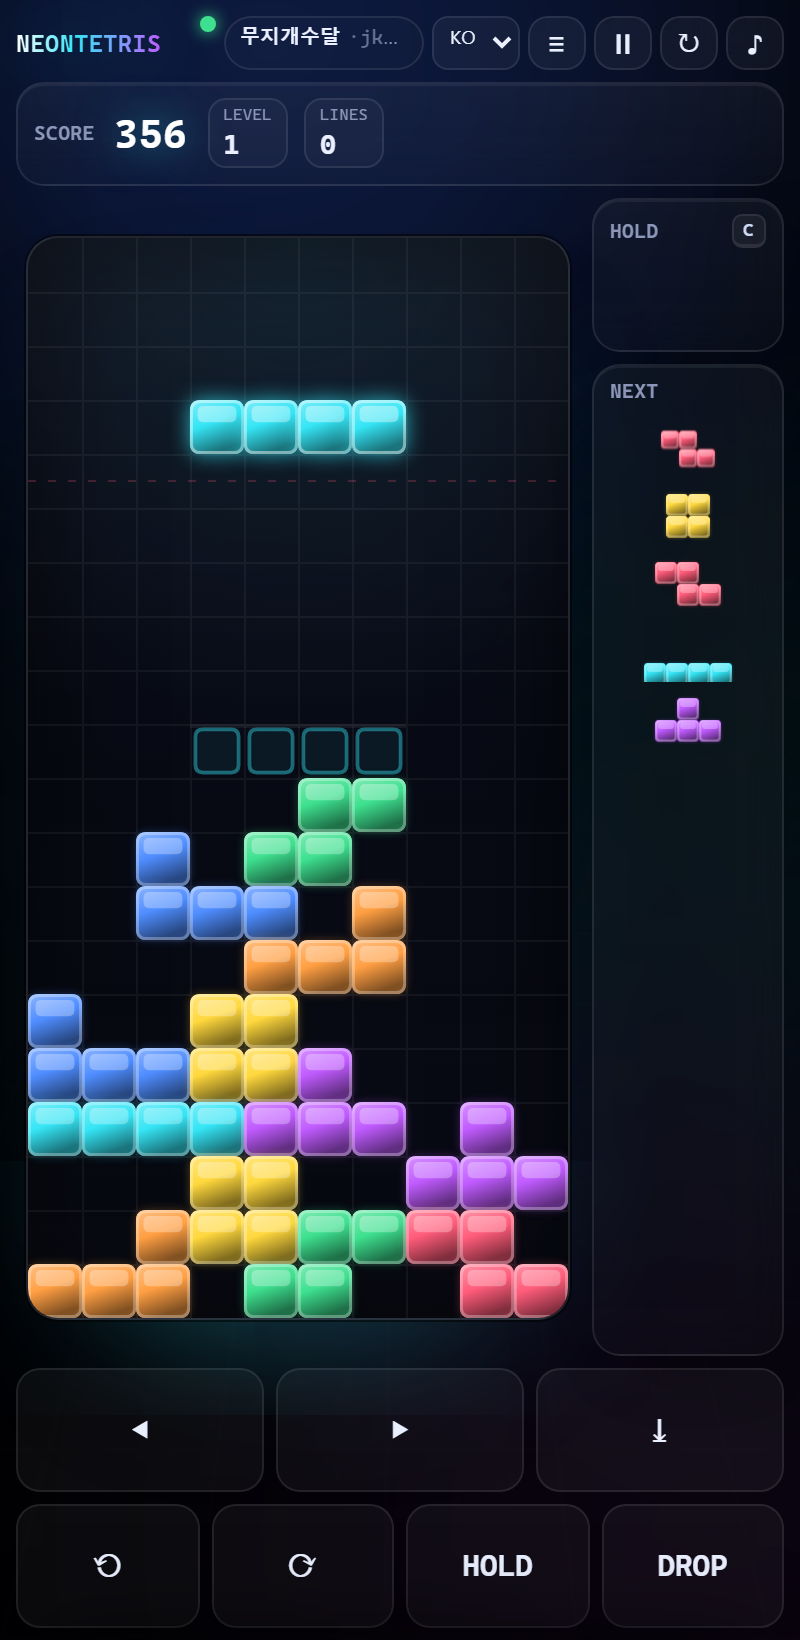
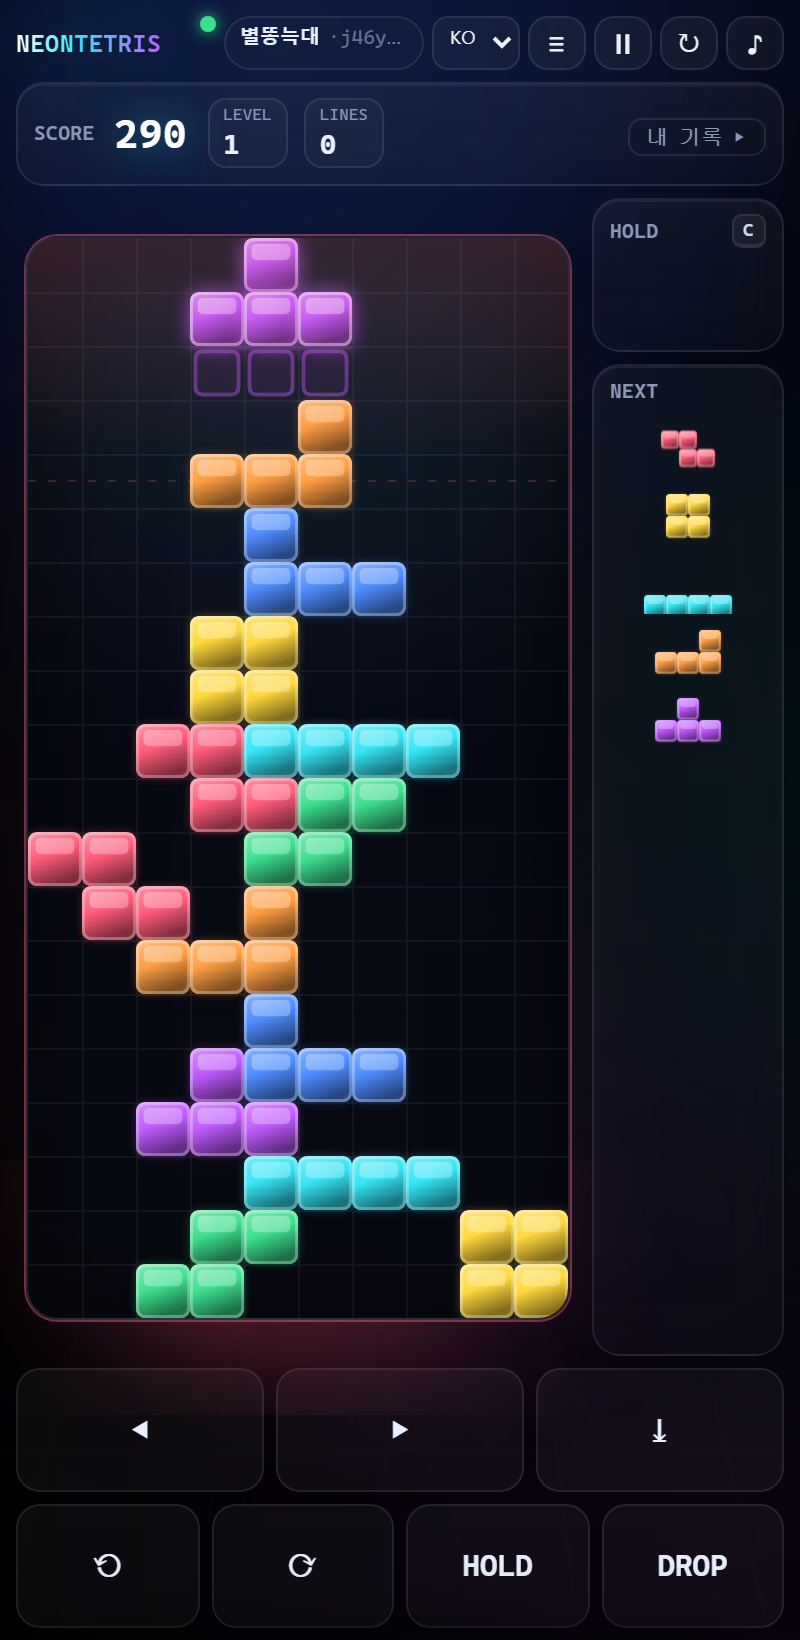
모바일 "내 기록" 진입로 + probe 가 문서 그림을 덮어쓰던 결함
1) 내 기록이 모바일에서 **어디에도 없었다**
   #mineCard 가 ≤900px 에서 display:none 이었고 ≡ 시트에도 들어 있지 않았다.
   (사용자 질문: "record 는 어디서 보지?" — 스크린샷 문제가 아니라 실제 구멍이었다.)
   고침: #mineCard 를 .pane 안으로 옮겨 시트의 첫 항목으로(내 기록 · 월드 보드 · 명예의 전당),
   SCORE 스트립 오른쪽 빈 끝에 `내 기록 ▸` 진입로를 두었다(제안하신 자리).
   - 처음엔 card-head 안( SCORE 와 숫자 288 사이)에 넣었더니 "점수 이름의 일부"처럼 읽혀서
     스트립 **끝**으로 옮겼다. 화면으로 확인함.
   - 데스크톱에서는 #paneMine 이 display:none 이고 .pane 은 display:contents 라
     레이아웃 변화가 없다(내 기록은 기존처럼 오른쪽에).
   - i18n pane.mineBtn 4언어(selftest 대칭). ja 값에 한글을 넣었다가 바로 고쳤다.

2) probe.js 가 docs/preview*.png 에 사진을 쓰고 있었다 — 그런데 probe 는 file:// 에서 돈다.
   → `npm run test:browser` 를 마지막에 돌리면 README 그림이 **오프라인 모드 화면**(칩이
     "오프라인 — 제출…")으로 조용히 덮여써졌다. 실제로 방금 그 사진이 나와서 발견했다.
   문서 그림의 유일한 생성자는 tools/shot.js(http) 로 두고, probe 는 임시 폴더에 쓴다.
   (해시로 확인: probe 실행 전후 docs/*.png 동일)

검정 probe +4 (3회 연속 실패 0):
- 내 기록은 시트 안에 있다 / 카드 top ≥ 시트 top(=pos 규칙으로 봐서 레이아웃 정립 대기와 무관)
- SCORE 오른쪽에 진입로가 보인다 / 그 버튼이 **같은** 시트를 연다
- 그리고 검사가 끝난 뒤 시트를 닫아둔다(다음 검사에 상태를 남기지 않는다)
플레이크 하나를 같이 잡았다: "닫힌 시트는 화면 밖" 을 단발로 재면 디바이스 메트릭 변경 직후
레이아웃이 아직 정립 중일 때 걸렸다 → 기준선은 poll 로 기다리고, 위치 단정은 "카드가 시트 안쪽에 있다"는
**규칙**으로 바꿔 재현성을 없앴다.

테스트: test 99 / selftest 99 / verifytest 131 / e2e 41 / probe 실패 0
문서: QUICKSTART 모바일 노트에 ≡ 패널 내용(월드·명예·내 기록)과 진입로 두 개를 명시

diff --git a/probe.js b/probe.js
@@ -345,12 +345,17 @@ async function waitForTarget() {
   console.log('   ', ai);
 
   // 미드게임 데스크톱 스크린샷
-  const docs = path.join(__dirname, 'docs');
-  fs.mkdirSync(docs, { recursive: true });
+  /* ⚠ probe 는 **file://** 에서 돈다(오프라인 강하가 검증 대상). 그래서 여기서 만드는 사진은
+     "오프라인 모드" 화면이다 — docs/preview*.png 에 쓰면 `npm run test:browser` 가 README 그림을
+     조용히 오프라인 화면으로 덮어썼다(실제로 그랬다). 문서 그림의 유일한 생성자는 tools/shot.js(http).
+     probe 사진은 검사용으로만 임시 폴더에 남긴다. */
+  const shotDir = path.join(require('os').tmpdir(), 'neon-tetris-probe');
+  fs.mkdirSync(shotDir, { recursive: true });
   const shot1 = await cmd('Page.captureScreenshot', { format: 'png' });
   if (shot1.result && shot1.result.data) {
-    fs.writeFileSync(path.join(docs, 'preview.png'), Buffer.from(shot1.result.data, 'base64'));
-    console.log('    → docs/preview.png 저장');
+    const f = path.join(shotDir, 'probe-desktop.png');
+    fs.writeFileSync(f, Buffer.from(shot1.result.data, 'base64'));
+    console.log('    → ' + f + '  ( 임시: docs 그림은 tools/shot.js 것 )');
   }
 
   console.log('\n[4] 랜덤 플레이 스트레스트 (200회 하드드롭 + 이동/회전/홀드/일시정지)');
@@ -474,7 +479,12 @@ async function waitForTarget() {
       clip: clipped,
       overlap: score && stage ? Math.round(Math.min(stage.bottom,score.bottom)-Math.max(stage.top,score.top)) : -1,
       cell: cv ? Math.round(cv.height/20*10)/10 : 0,
+      vh: innerHeight,
       mine: getComputedStyle(document.getElementById('mineCard')).display,
+      mineInPane: !!(document.getElementById('pane') && document.getElementById('pane').contains(document.getElementById('mineCard'))),
+      paneTop: Math.round(document.getElementById('pane').getBoundingClientRect().top),
+      mineTop: Math.round(document.getElementById('mineCard').getBoundingClientRect().top),
+      paneMineShown: getComputedStyle(document.getElementById('paneMine')).display,
     });
   })()`));
   ok2(mobFix.uiApplied === 'grid', 'ui.css 규칙이 페이지에 실제로 적용된다 (.wb-row 가 grid)', mobFix.uiApplied);
@@ -482,13 +492,20 @@ async function waitForTarget() {
   ok2(mobFix.clip.length === 0, '버튼/셀렉트가 화면 오른쪽 밖으로 잘리지 않는다', mobFix.clip);
   ok2(mobFix.overlap <= 1, '보드가 SCORE 카드를 덮지 않는다', '겹침 ' + mobFix.overlap + 'px');
   ok2(mobFix.cell >= 26, '모바일 칸 크기가 식별 가능한 수준(≥26px — 카드가 시트로 빠져 흐름에서 벗어남)', mobFix.cell + 'px');
-  ok2(mobFix.mine === 'none', '모바일에서 내 기록 카드는 접힌다', mobFix.mine);
+  ok2(mobFix.mineInPane === true, '모바일에서 "내 기록"은 시트 안에 있다 (어디에도 없던 구멍)', mobFix.mineInPane);
+  ok2(mobFix.mineTop >= mobFix.paneTop - 1, '내 기록은 시트 **안쪽에** 있다(열 때만 따라 나온다)', mobFix.mineTop + ' vs pane ' + mobFix.paneTop);
+  ok2(mobFix.paneMineShown !== 'none', 'SCORE 오른쪽에 내 기록 진입로가 보인다', mobFix.paneMineShown);
 
   /* 시트(≡): 기본은 화면 밖, 열리면 월드 보드가 안으로 올라오고, 스크림으로 닫힌다. */
   const paneFix = JSON.parse(await evalJS(`(async () => {
     const sleep = (ms)=>new Promise(r=>setTimeout(r,ms));
     const btn = document.getElementById('paneBtn'), pane = document.getElementById('pane');
-    const before = { btn: btn ? getComputedStyle(btn).display : '없음', offTop: pane ? Math.round(pane.getBoundingClientRect().top) : -1, vh: innerHeight };
+    /* 디바이스 메트릭을 바꾼 직후에는 레이아웃이 아직 정립 중일 수 있다(실제로 한 번
+       "닫힌 시트" 가 화면 안으로 측정됐다). 기준선을 단발로 재면 플레이크가 되니 정립을 기다린다 —
+       기다려도 안 오면 아래 검정이 그 사실을 메시지로 말한다. */
+    let offTop = pane ? Math.round(pane.getBoundingClientRect().top) : -1;
+    for (let q = 0; q < 12 && offTop < innerHeight - 1; q++) { await sleep(150); offTop = pane ? Math.round(pane.getBoundingClientRect().top) : -1; }
+    const before = { btn: btn ? getComputedStyle(btn).display : '없음', offTop: offTop, vh: innerHeight };
     if (btn) btn.click();
     /* 고정 sleep 은 경합한다(한 번 wcVisible:false 로 잡혔다). 전환이 끝날 때까지 상태를 본다. */
     let open = { bodyOpen: false, wcVisible: false }, wc, i;
@@ -501,12 +518,27 @@ async function waitForTarget() {
     open.retries = i;
     const scrim = document.getElementById('paneScrim'); if (scrim) scrim.click();
     await sleep(350);
-    return JSON.stringify({ before: before, open: open, closedAfterScrim: !document.body.classList.contains('pane-open') });
+    const closedAfterScrim = !document.body.classList.contains('pane-open');
+    /* SCORE 옆 진입로도 같은 시트를 열어야 한다(두 개의 문이 다른 방으로 가면 안 된다). */
+    const pm = document.getElementById('paneMine'); if (pm) pm.click();
+    let mineVisible = false;
+    for (let k = 0; k < 16 && !mineVisible; k++) {
+      await sleep(100);
+      const mr = document.getElementById('mineCard').getBoundingClientRect();
+      mineVisible = mr.bottom > 0 && mr.top < innerHeight;
+    }
+    open.viaPaneMine = mineVisible;
+    const back = document.getElementById('paneBtn'); if (back) back.click();   /* 다음 검사에 상태를 남기지 않는다 */
+    await sleep(300);
+    return JSON.stringify({ before: before, open: open, closedAfterScrim: closedAfterScrim,
+      cleanAfter: !document.body.classList.contains('pane-open') });
   })()`, true));
   ok2(paneFix.before.btn !== 'none' && paneFix.before.btn !== '없음', '모바일에서 ≡ 버튼이 보인다', paneFix.before.btn);
   ok2(paneFix.before.offTop >= paneFix.before.vh - 1, '시트는 기본 상태에서 화면 밖에 있다', paneFix.before.offTop + ' vs vh ' + paneFix.before.vh);
   ok2(paneFix.open.bodyOpen === true && paneFix.open.wcVisible === true, '≡ 를 누르면 월드 보드가 화면 안으로 올라온다', JSON.stringify(paneFix.open));
+  ok2(paneFix.open.viaPaneMine === true, 'SCORE 옆 "내 기록 ▸" 도 같은 시트를 연다', JSON.stringify(paneFix.open));
   ok2(paneFix.closedAfterScrim === true, '스크림을 누르면 시트가 닫힌다', String(paneFix.closedAfterScrim));
+  ok2(paneFix.cleanAfter === true, '검사가 끝나면 시트가 닫힌 상태다(다음 검사에 상태를 남기지 않는다)', String(paneFix.cleanAfter));
 
   /* 터치 패드 2단: 줄 개수와 타깃 크기까지 본다 — "작게 한 줄" 로 되돌아가기 가장 쉬운 부분이다. */
   const pad = JSON.parse(await evalJS(`(function(){
@@ -636,8 +668,9 @@ async function waitForTarget() {
   await sleep(600);
   const shot2 = await cmd('Page.captureScreenshot', { format: 'png' });
   if (shot2.result && shot2.result.data) {
-    fs.writeFileSync(path.join(__dirname, 'docs', 'preview-mobile.png'), Buffer.from(shot2.result.data, 'base64'));
-    console.log('    → docs/preview-mobile.png');
+    const f2 = path.join(require('os').tmpdir(), 'neon-tetris-probe', 'probe-mobile.png');
+    fs.writeFileSync(f2, Buffer.from(shot2.result.data, 'base64'));
+    console.log('    → ' + f2 + '  ( 임시: file:// 화면이라 문서 그림으로 쓰지 않는다 )');
   }
   await cmd('Emulation.clearDeviceMetricsOverride');
   const shot = path.join(process.env.TEMP || '/tmp', 'neon-tetris.png');

diff --git a/i18n.js b/i18n.js
@@ -55,7 +55,7 @@
       'time.pairHint': '재현 = 서버가 같은 입력으로 다시 돌려본 시간(순위는 이쪽으로 매겨진다). 클라이언트 = 시드 발급→제출까지의 실측이라 화면을 보거나 대기한 시간이 들어 있다. 재현이 클라이언트보다 크면 물리적으로 성립하지 않으므로 서버가 기각한다.',
       'replay.by': '{who}의 기록', 'replay.exit': '닫기', 'replay.watch': '리플레이',
       'dev.phone': '폰', 'dev.tablet': '태블릿', 'dev.desktop': '데스크톱', 'dev.hybrid': '터치+키보드',
-      'pane.open': '월드 보드 · 명예의 전당',
+      'pane.open': '월드 보드 · 명예의 전당', 'pane.mineBtn': '내 기록 ▸',
       'dev.hint': '기기는 브라우저가 스스로 보고한 분류입니다. 위조 가능하고 표시에만 쓰이며, 점수 판정에는 쓰지 않습니다.',
       'race.you': '나', 'race.them': '{who}', 'race.ahead': '+{gap}', 'race.behind': '-{gap}',
       'mine.title': '내 기록 (이 기기)', 'mine.empty': '이 브라우저에 저장된 기록이 없습니다.',
@@ -105,7 +105,7 @@
       'time.pairHint': 'Simulated = the time the server got by replaying the same inputs (this is what ranking uses). Client = measured from seed issue to submit, so it includes time spent looking at the screen. Simulated larger than client cannot physically happen — the server rejects it.',
       'replay.by': "{who}'s record", 'replay.exit': 'close', 'replay.watch': 'replay',
       'dev.phone': 'phone', 'dev.tablet': 'tablet', 'dev.desktop': 'desktop', 'dev.hybrid': 'touch+keyboard',
-      'pane.open': 'World board · Hall of Fame',
+      'pane.open': 'World board · Hall of Fame', 'pane.mineBtn': 'My records ▸',
       'dev.hint': 'The device class is self-reported by the browser: it can be faked, is display-only, and is never used to judge a score.',
       'race.you': 'you', 'race.them': '{who}', 'race.ahead': '+{gap}', 'race.behind': '-{gap}',
       'mine.title': 'My records (this device)', 'mine.empty': 'No records saved in this browser.',
@@ -152,7 +152,7 @@
       'time.pairHint': '再現 = サーバーが同じ入力で遊び直した時間（順位はこれで決まる）。クライアント = シード発行から送信までの実測で、画面を見て待った時間も含む。再現の方がクライアントより大きければ物理的に成立しないのでサーバーが却下する。',
       'replay.by': '{who} の記録', 'replay.exit': '閉じる', 'replay.watch': 'リプレイ',
       'dev.phone': 'フォン', 'dev.tablet': 'タブレット', 'dev.desktop': 'デスクトップ', 'dev.hybrid': 'タッチ+キーボード',
-      'pane.open': 'ワールドボード · 殿堂',
+      'pane.open': 'ワールドボード · 殿堂', 'pane.mineBtn': 'この端末の記録 ▸',
       'dev.hint': '機器分類はブラウザが自分で申告したものです。偽装可能で表示専用、採点には使いません。',
       'race.you': '自分', 'race.them': '{who}', 'race.ahead': '+{gap}', 'race.behind': '-{gap}',
       'mine.title': '自分の記録（この端末）', 'mine.empty': 'このブラウザに保存された記録はありません。',
@@ -198,7 +198,7 @@
       'time.pairHint': '重放 = 服务器用同样的输入重新跑出的时间（排名用这个）。客户端 = 从发放种子到提交的实测，包含看屏幕的等待时间。重放比客户端还大就物理上不成立，服务器会拒绝。',
       'replay.by': '{who} 的记录', 'replay.exit': '关闭', 'replay.watch': '回放',
       'dev.phone': '手机', 'dev.tablet': '平板', 'dev.desktop': '台式机', 'dev.hybrid': '触屏+键盘',
-      'pane.open': '世界榜 · 名人堂',
+      'pane.open': '世界榜 · 名人堂', 'pane.mineBtn': '我的记录 ▸',
       'dev.hint': '设备分类由浏览器自行上报（可伪造，仅作展示）——不用于判定成绩。',
       'race.you': '我', 'race.them': '{who}', 'race.ahead': '+{gap}', 'race.behind': '-{gap}',
       'mine.title': '我的记录（本设备）', 'mine.empty': '此浏览器没有保存的记录。',

diff --git a/index.html b/index.html
@@ -45,12 +45,6 @@
         <canvas id="hold" class="preview"></canvas>
       </section>
 
-      <section class="card" id="mineCard">
-        <div class="card-head"><span data-i18n="board.me">내 기록</span><span class="hint">this device</span></div>
-        <div class="wb-list mine" id="mineList"></div>
-        <button class="btn tiny ghost" id="mineClear" data-i18n="mine.clear">목록 지우기</button>
-      </section>
-
       <section class="card stats">
         <div class="card-head"><span>STATS</span></div>
         <dl>
@@ -111,11 +105,22 @@
           <div class="mini wide"><span>BEST</span><b id="high">0</b></div>
         </div>
         <div class="chips" id="chips"></div>
+        <!-- 모바일에서 SCORE 스트립 오른쪽은 비어 있었다. 상단 바는 이미 예산이 가득 차서
+             (≡ 를 넣자마자 넘침) 이 자리가 옳다. 스트립 **끝**에 두는 것 — SCORE 레이블과 숫자
+             사이에 넣으면 점수 이름의 일부처럼 읽힌다. 데스크톱에서는 보이지 않는다. -->
+        <button class="btn tiny ghost" id="paneMine" data-i18n="pane.mineBtn">내 기록 ▸</button>
       </section>
 
       <!-- 시트(모바일): 데스크톱에서는 .pane 이 display:contents 라 아래 두 카드가 그냥 오른쪽 열에 쌓인다.
            모바일에서는 화면 아래에서 올라오는 패널이 된다 — 보드가 카드에 세로를 안 뺏기게. -->
       <div class="pane" id="pane">
+      <!-- 모바일에서는 시트가 이 세 카드를 아래에서 불러낸다. 그래서 "내 기록"도 이 안쪽에 있다
+           (한때 모바일에서 display:none 으로 사라져 어딘지도 모르게 되어 있었다). -->
+      <section class="card" id="mineCard">
+        <div class="card-head"><span data-i18n="board.me">내 기록</span><span class="hint">this device</span></div>
+        <div class="wb-list mine" id="mineList"></div>
+        <button class="btn tiny ghost" id="mineClear" data-i18n="mine.clear">목록 지우기</button>
+      </section>
       <section class="card" id="worldCard">
         <div class="card-head"><span data-i18n="board.title">월드 레코드</span><span class="hint" id="wbHold"></span></div>
         <div id="worldBoard"></div>

diff --git a/ui.css b/ui.css
@@ -236,6 +236,7 @@ body[data-lang="ko"] .ov-title { letter-spacing: -0.01em; }
 .pane { display: contents; }
 .pane-scrim { display: none; }
 #paneBtn { display: none; }
+#paneMine { display: none; }
 
 /* ---------- 모바일 ---------- */
 @media (max-width: 900px) {
@@ -278,7 +279,6 @@ body[data-lang="ko"] .ov-title { letter-spacing: -0.01em; }
   .topbar-actions { flex: 0 0 auto; gap: 5px; }
   .icon-btn { width: 32px; height: 30px; }
   .sel.mini { flex: 0 0 auto; max-width: 60px; }
-  #mineCard { display: none; }
   #worldCard { grid-area: 4 / 1 / 5 / 3; }
   .settings { gap: 6px; }
   .me-chip { font-size: 10px; padding: 2px 7px; }
@@ -287,6 +287,8 @@ body[data-lang="ko"] .ov-title { letter-spacing: -0.01em; }
   .wb-list { max-height: 132px; }
   /* 시트 전개 */
   #paneBtn { display: inline-flex; align-items: center; justify-content: center; }
+  /* SCORE 스트립 오른쪽 빈 자리 진입로(모바일만). 끝정렬 — 레이블과 숫자 사이는 금지. */
+  #paneMine { display: inline-flex; align-items: center; align-self: center; margin-left: auto; }
   .pane {
     display: flex; flex-direction: column; gap: 10px;
     position: fixed; left: 0; right: 0; bottom: 0; z-index: 45;

diff --git a/client.js b/client.js
@@ -732,6 +732,9 @@
       btn.setAttribute('aria-expanded', open ? 'true' : 'false');
     };
     btn.addEventListener('click', function () { setPane(!document.body.classList.contains('pane-open')); });
+    /* SCORE 옆 진입로: 시트를 **여는** 역할만 한다(닫기는 스크림/≡ ). */
+    const mine = $('paneMine');
+    if (mine) mine.addEventListener('click', function () { setPane(true); });
     if (scrim) scrim.addEventListener('click', function () { setPane(false); });
     /* 시작했는데 시트가 보드를 덮고 있으면 소란스럽다. 버튼 생성 순서에 상관없이 위임으로 잡는다. */
     document.addEventListener('click', function (e) {

diff --git a/QUICKSTART.md b/QUICKSTART.md
@@ -112,4 +112,4 @@ docker run -d -p 8787:8787 -v $PWD/data:/app/data --restart unless-stopped neon-
 
 모바일/태블릿은 화면 아래 터치 바가 뜹니다. 모드 3종(MARATHON / SPRINT 40 / ULTRA 2:00)과 시작 레벨 1–20, 20G 옵션이 있습니다.
 
-> **모바일에서 월드 보드가 안 보인다면?** 좁은 화면에서 보드를 크게 만들기 위해 월드 보드·명예의 전당은 **위쪽의 `≡` 버튼**으로 여는 패널로 들어갔습니다. 손가락으로 화면 아래에서 밀어올리는 식으로 열리고, 바깥을 누르면 닫힙니다. 데스크톱에서는 예전처럼 오른쪽에 항상 보입니다.
+> **모바일에서 월드 보드·내 기록이 안 보인다면?** 좁은 화면에서 보드를 크게 만들기 위해 **월드 보드 · 명예의 전당 · 내 기록**은 위쪽의 **`≡` 버튼**으로 여는 패널로 들어갔습니다. 화면 아래에서 올라오고, 바깥을 누르면 닫힙니다. SCORE 줄 오른쪽의 **`내 기록 ▸`** 를 눌러도 같은 패널이 열립니다. 데스크톱에서는 예전처럼 오른쪽에 항상 보입니다.
